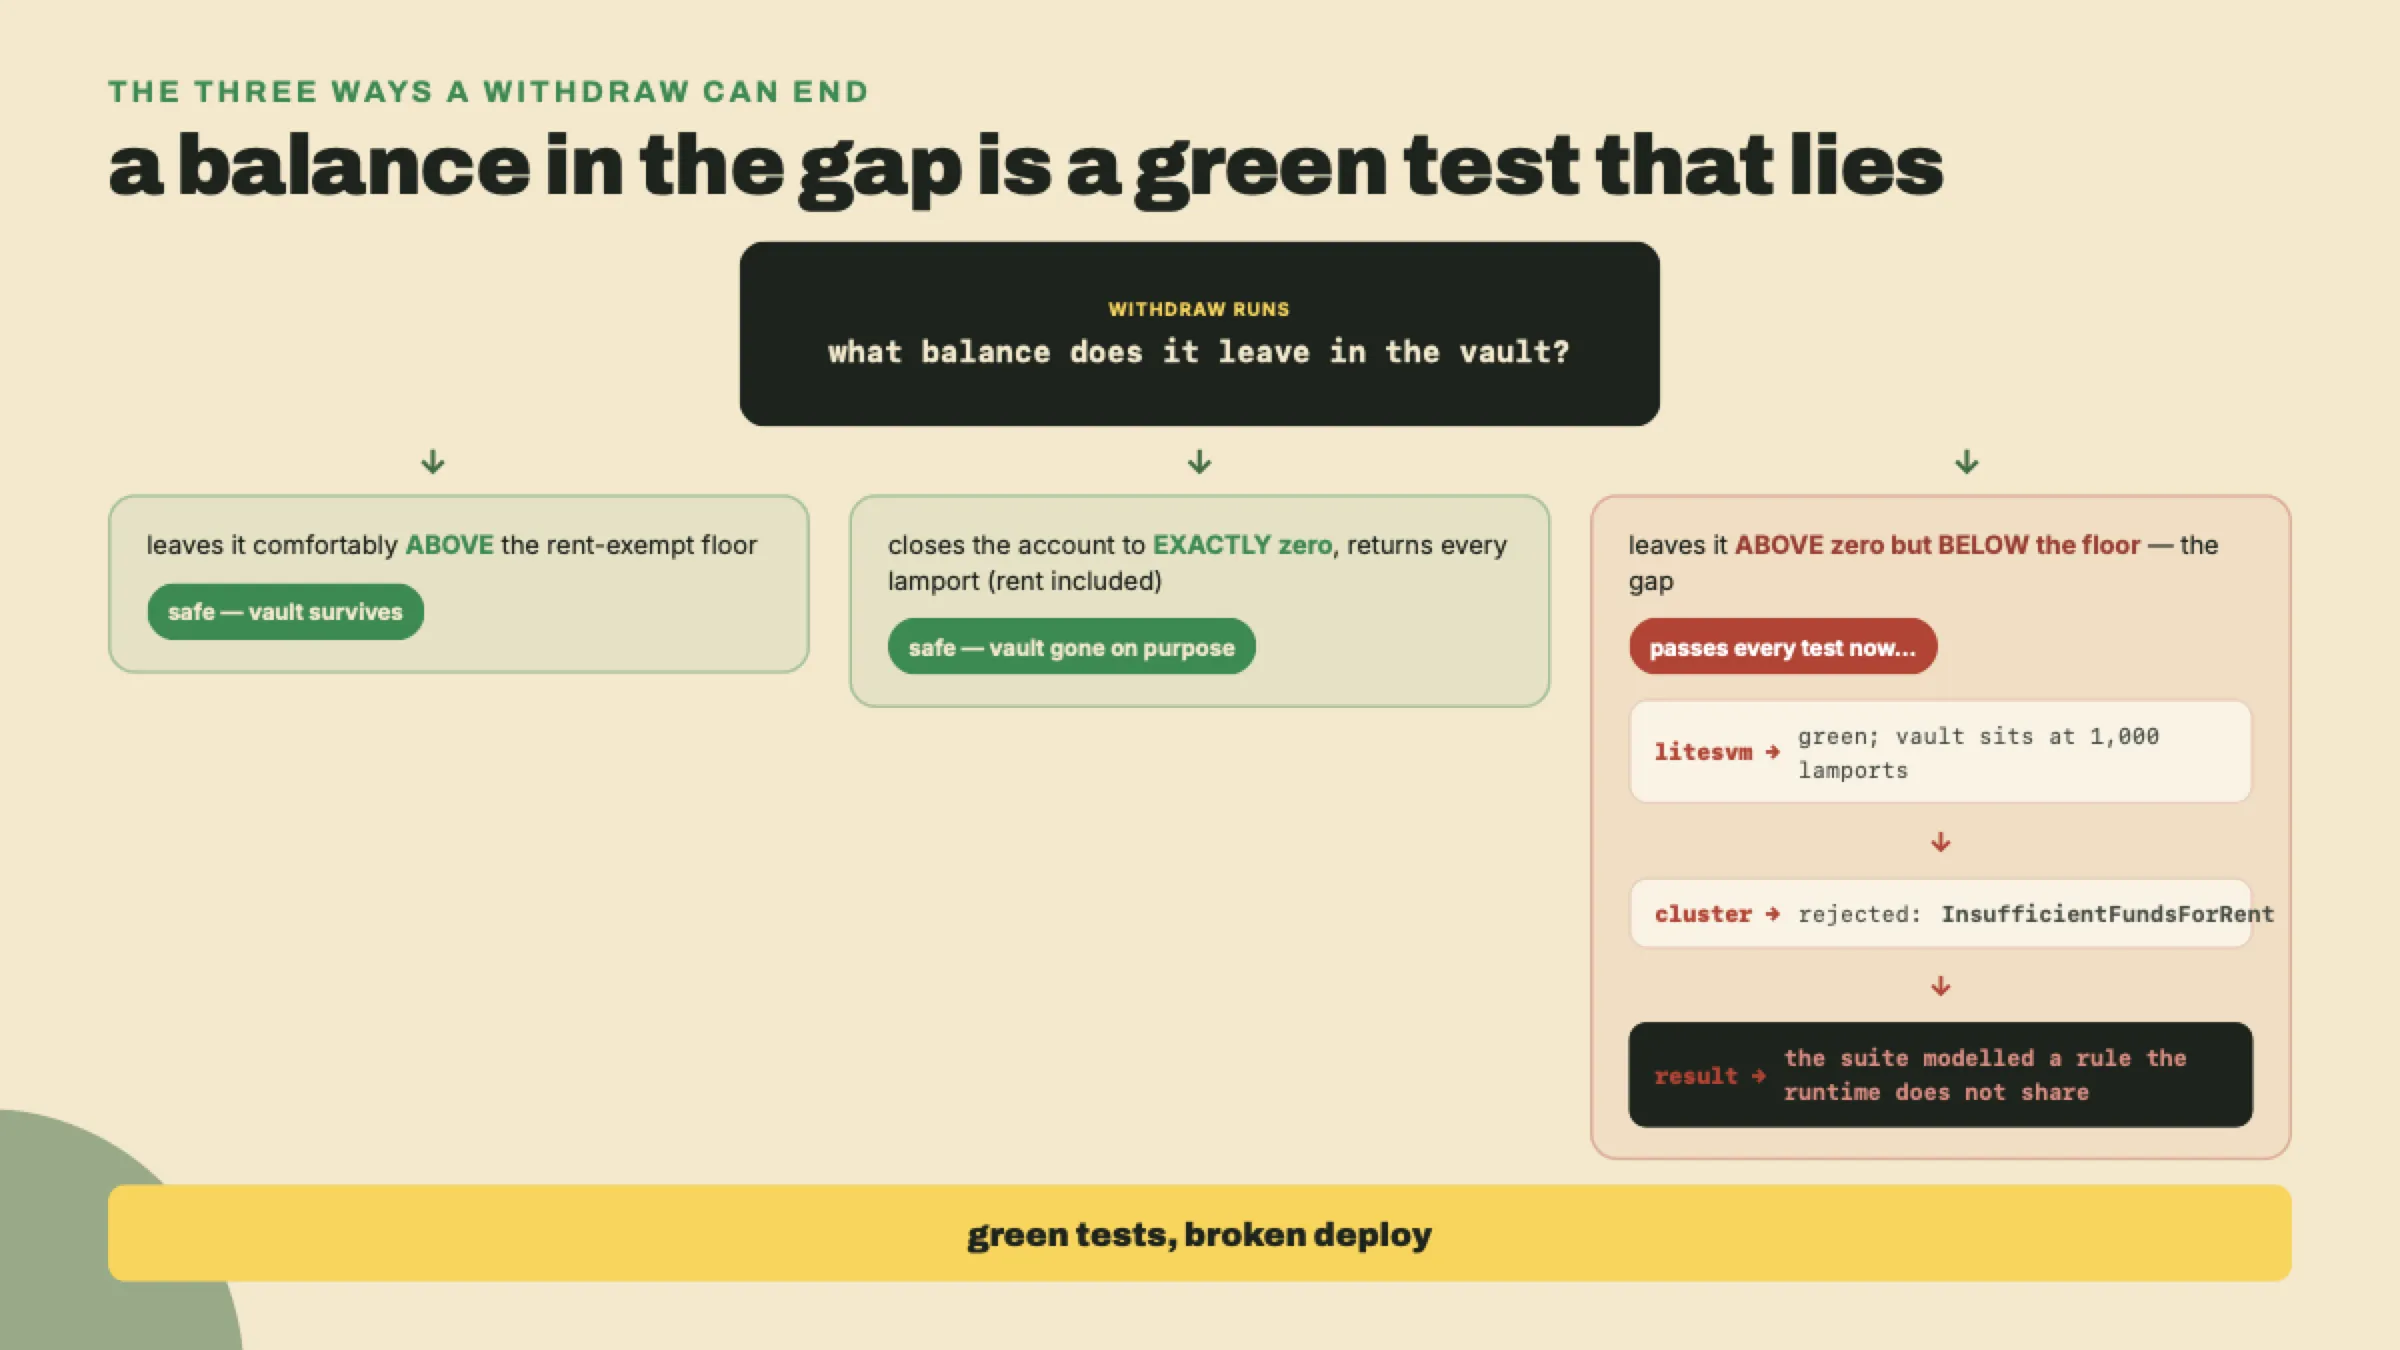
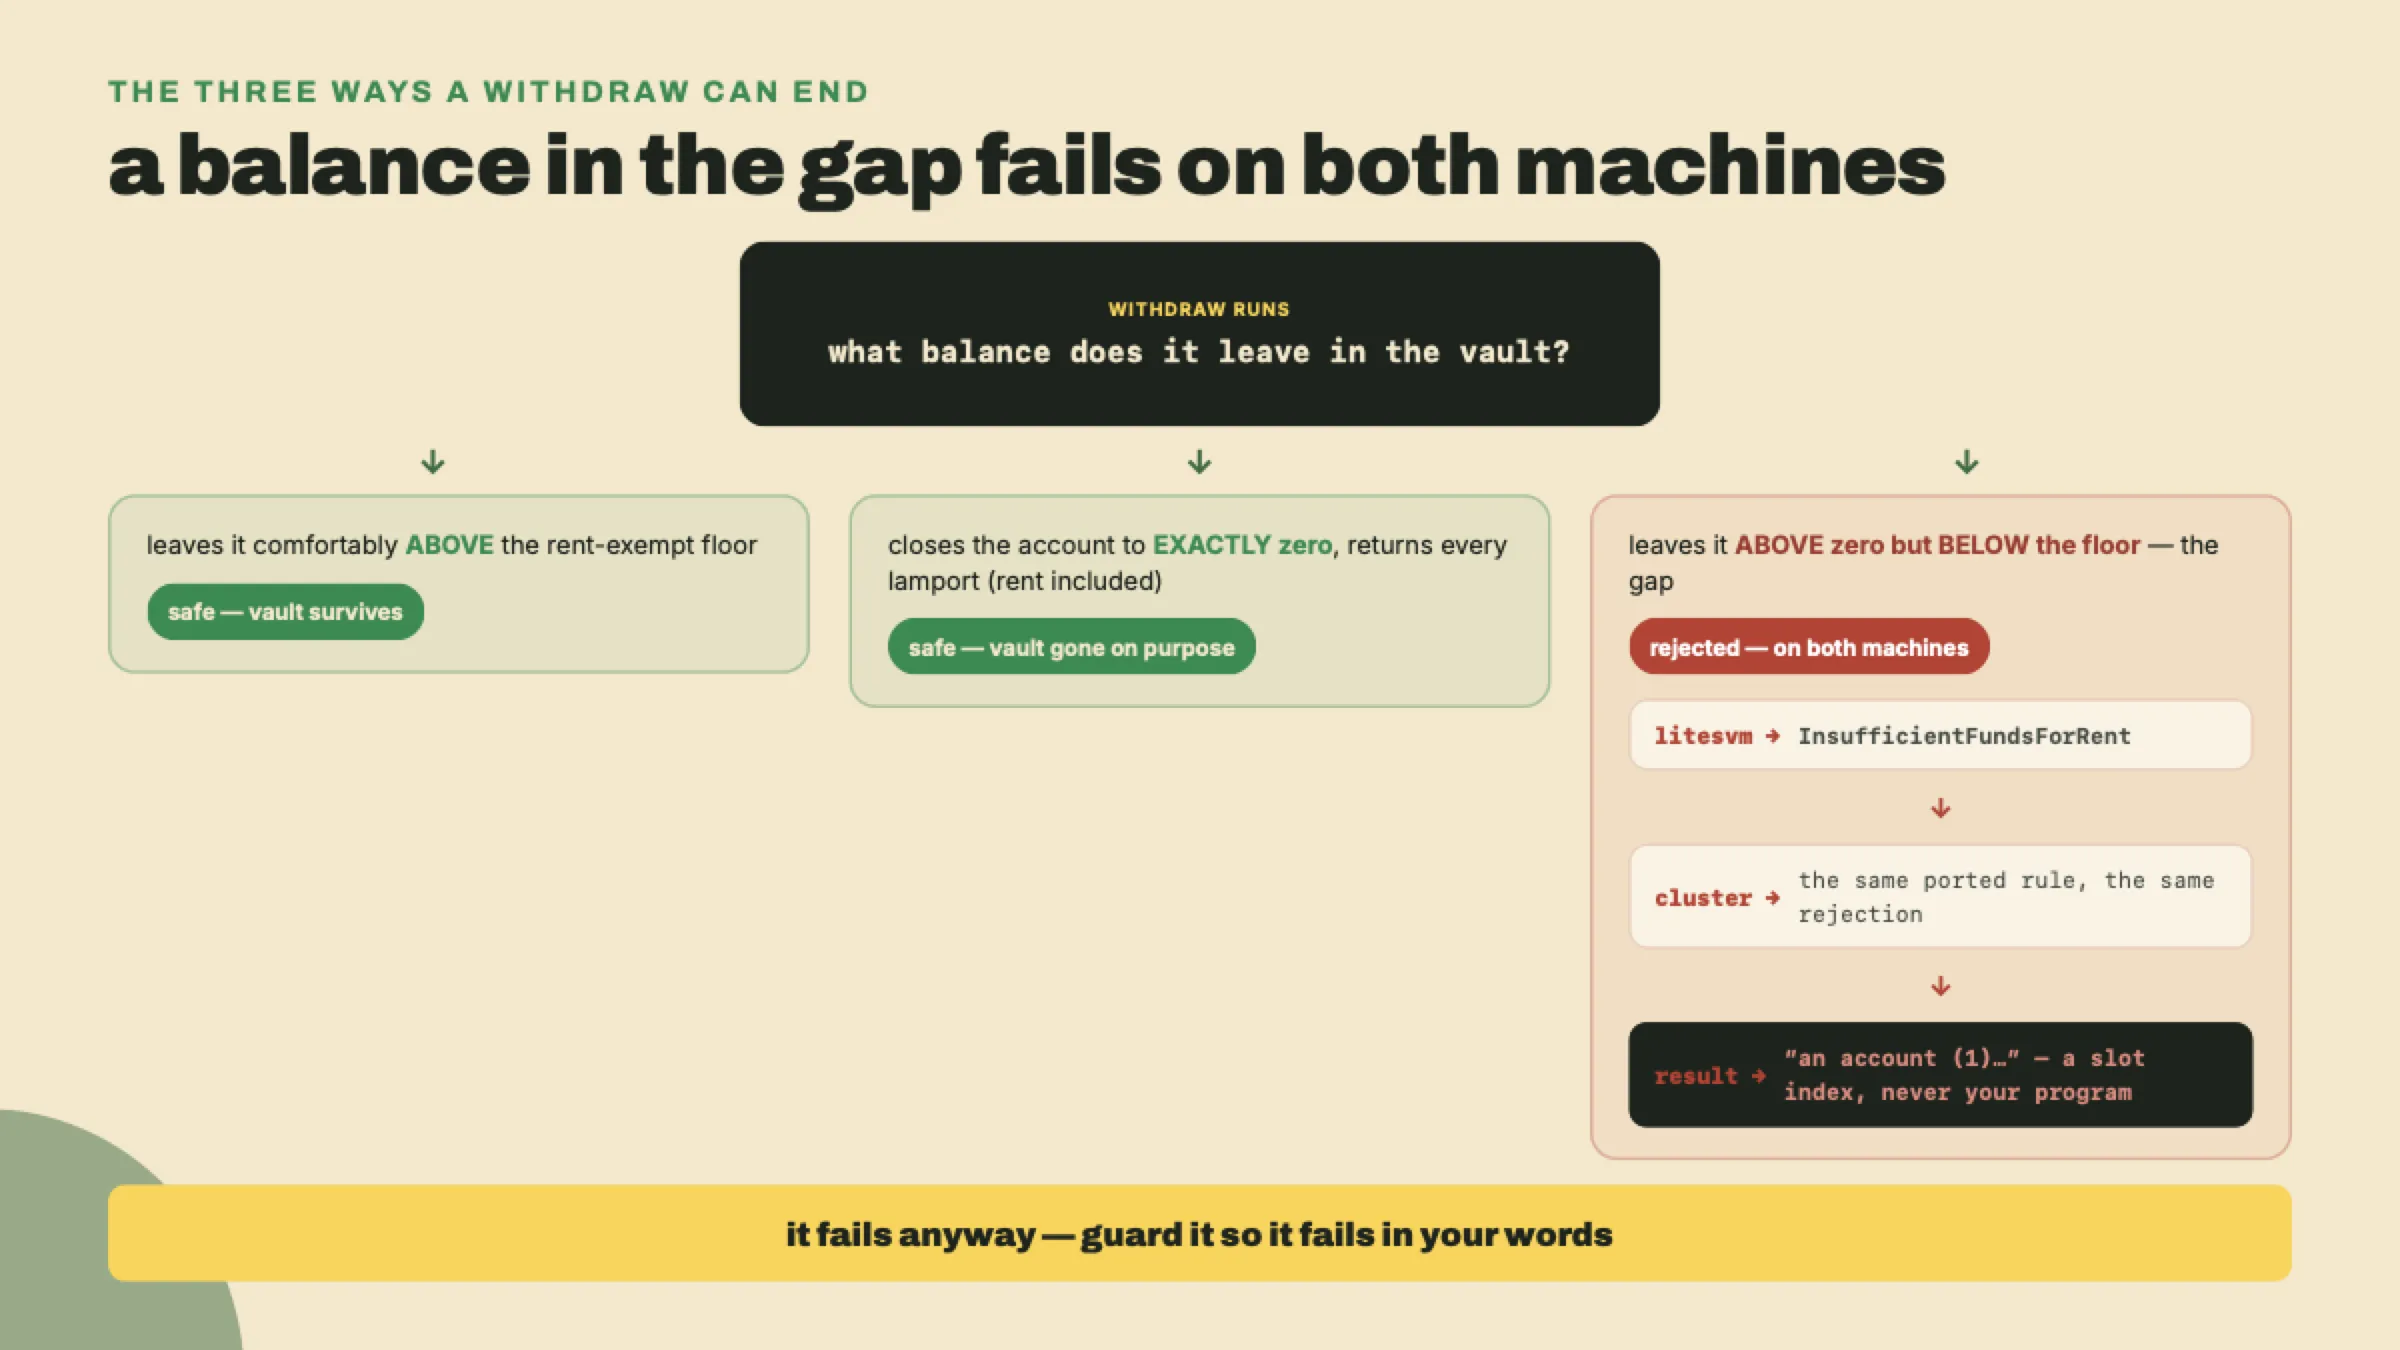
fix(b2s): LiteSVM does enforce the rent-state check
an-anchor-vault claimed "LiteSVM does not apply that rent-state check on this
path: run the sliver-leaving withdraw under `anchor test` and it returns green",
and built its payoff on it: "the one machine that would have caught it is the one
machine you are not running". Both are false, and inverted rather than merely
imprecise -- a learner who runs the lab sees the opposite of what they were told.

Verified two ways against litesvm 0.16.0.

Read: src/utils/rent.rs states in its first line that it is taken from Agave's
svm/src/rent_calculator.rs. transition_allowed returns false for a post-state of
RentPaying reached from RentExempt. check_accounts_rent (lib.rs:2103) walks every
writable account after execution and is wired into the result at lib.rs:1496.
The crate's own tests/system.rs asserts it:
test_rent_check_still_fails_successful_transaction.

Ran: a standalone litesvm 0.16.0 binary that funds a 0-byte system account to one
SOL and transfers out all but 1,000 lamports -- the lesson's exact scenario:

    vault before : 1000000000 lamports
    RESULT       : REJECTED -> InsufficientFundsForRent { account_index: 1 }
      as string  : Transaction results in an account (1) with insufficient funds for rent
    vault after  : 1000000000 lamports

Rewrites the passage to teach what is actually true without claiming LiteSVM is a
runtime replica: it enforces THIS rule, both machines reject the withdraw, and the
[…]

diff --git a/courses/btc-to-sol-evolution/visual-src/an-anchor-vault/v09-flowchart.html b/courses/btc-to-sol-evolution/visual-src/an-anchor-vault/v09-flowchart.html
@@ -11,9 +11,9 @@
 </style></head>
 <body>
 <!-- flowchart: the three ways a withdraw can end
-     purpose: certify that a balance in the rent-exempt gap is rejected by the real runtime but waved through by the in-process test harness
-     data: withdraw runs -> what balance does it leave in the vault? leaves it comfortably ABOVE the rent-exempt floor -> safe, vault survives closes the account to EXACTLY zero, returns every lamport (rent included) -> safe, vault gone on purpose leaves it ABOVE zero but BELOW the floor (the gap) -> LiteSVM: green, vault sits at 1,000 lamports -> real cluster: rejected, InsufficientFundsForRent -> your suite modelled a rule the runtime does not share; nothing is ever swept, because rent collection is off cluster-wide
-     prompt: Top-down flowchart, dark theme, monospace. One decision node ("resulting vault balance?") branching to three outcomes: two green ("above floor", "exactly zero"), one red ("in the gap") that flows down through a "LiteSVM says green -> real cluster rejects with InsufficientFundsForRent -> your test lied" chain. Callout on the red path: "green tests, broken deploy". Do NOT depict an epoch sweep or a purge: rent collection is disabled cluster-wide and nothing is ever swept. No decorative icons.
+     purpose: certify that a balance in the rent-exempt gap is rejected by BOTH machines, and that the cost is an error in the runtime's vocabulary rather than the program's
+     data: withdraw runs -> what balance does it leave in the vault? leaves it comfortably ABOVE the rent-exempt floor -> safe, vault survives closes the account to EXACTLY zero, returns every lamport (rent included) -> safe, vault gone on purpose leaves it ABOVE zero but BELOW the floor (the gap) -> LiteSVM: REJECTED, InsufficientFundsForRent (litesvm/src/utils/rent.rs is a direct port of Agave's rent_calculator.rs; check_accounts_rent re-walks every writable account post-execution, and RentExempt -> RentPaying is not an allowed transition) -> real cluster: rejected the same way -> both machines agree; what you lose is the wording: "Transaction results in an account (1) with insufficient funds for rent" names a slot index and never names your program; nothing is ever swept, because rent collection is off cluster-wide
+     prompt: Top-down flowchart, dark theme, monospace. One decision node ("resulting vault balance?") branching to three outcomes: two green ("above floor", "exactly zero"), one red ("in the gap") that flows down through a "LiteSVM rejects -> the cluster rejects identically -> the message names an account index, not your program" chain. Callout on the red path: "both machines agree - in the runtime's words, not yours". Do NOT claim LiteSVM passes, is green, or misses this check: it ports Agave's rent_calculator verbatim and enforces the same RentExempt -> RentPaying rejection, which was verified against litesvm 0.16.0 source and its own test_rent_check_still_fails_successful_transaction. Do NOT depict an epoch sweep or a purge: rent collection is disabled cluster-wide and nothing is ever swept. No decorative icons.
      BUILD .viz as on-brand HTML per skills/content-gen/references/visual-rendering.md.
      WeasyPrint-safe CSS only: flexbox/grid/borders/gradients; NO box-shadow, NO
      background-image url(), NO JS. Use brand tokens (--surface-*, --text-*, --stbr-*). -->
@@ -56,7 +56,7 @@
     font-weight:900; font-size:22px; }
 </style>
   <div class="stbr-eyebrow">the three ways a withdraw can end</div>
-  <h2 class="viz-title">a balance in the gap is a green test that lies</h2>
+  <h2 class="viz-title">a balance in the gap fails on both machines</h2>
   <div class="fc">
     <div class="decwrap"><div class="decide"><span class="k">withdraw runs</span><span class="q">what balance does it leave in the vault?</span></div></div>
     <div class="fork"><span>&darr;</span><span>&darr;</span><span>&darr;</span></div>
@@ -65,17 +65,17 @@
       <div class="out safe"><div class="cond">closes the account to <b>EXACTLY zero</b>, returns every lamport (rent included)</div><div class="verdict">safe &mdash; vault gone on purpose</div></div>
       <div class="out bad">
         <div class="cond">leaves it <b>ABOVE zero but BELOW the floor</b> &mdash; the gap</div>
-        <div class="verdict">passes every test now&hellip;</div>
+        <div class="verdict">rejected &mdash; on both machines</div>
         <div class="chain">
-          <div class="link"><span class="step">litesvm &rarr;</span> green; vault sits at 1,000 lamports</div>
+          <div class="link"><span class="step">litesvm &rarr;</span> <b>InsufficientFundsForRent</b></div>
           <div class="dnr">&darr;</div>
-          <div class="link"><span class="step">cluster &rarr;</span> rejected: <b>InsufficientFundsForRent</b></div>
+          <div class="link"><span class="step">cluster &rarr;</span> the same ported rule, the same rejection</div>
           <div class="dnr">&darr;</div>
-          <div class="link final"><span class="step">result &rarr;</span> <b>the suite modelled a rule the runtime does not share</b></div>
+          <div class="link final"><span class="step">result &rarr;</span> <b>&ldquo;an account (1)&hellip;&rdquo; &mdash; a slot index, never your program</b></div>
         </div>
       </div>
     </div>
-    <div class="callout">green tests, broken deploy</div>
+    <div class="callout">it fails anyway &mdash; guard it so it fails in your words</div>
   </div>
 </div>
 </body></html>

diff --git a/courses/btc-to-sol-evolution/lessons/an-anchor-vault/intro.md b/courses/btc-to-sol-evolution/lessons/an-anchor-vault/intro.md
@@ -544,11 +544,17 @@ Transaction results in an account (0) with insufficient funds for rent
 
 The second: nothing comes for it later, either. Periodic rent collection was switched off cluster-wide, which is exactly what the throughput lesson told you last lesson. There is no epoch-boundary reaper hunting under-funded accounts, because there is no rent collector at all any more. The gap is guarded at the door, not policed after the fact.
 
-So why does this footgun still have a body count? Because your test harness is not the runtime. LiteSVM does not apply that rent-state check on this path: run the sliver-leaving withdraw under `anchor test` and it returns green, and the vault sits there holding its 1,000 lamports as though nothing were wrong. Then you deploy, a real user asks for that same withdrawal, and the transaction bounces off a rule your suite never modelled, with an error that names *rent* when your program never said a word about rent. That is the modern shape of this trap: not a silent loss, but a green test that lies about production.
+So why does this footgun still have a body count? Not because your harness misses it. That is the guess everyone makes, and it is worth disproving out loud, because a lot of advice is built on it. LiteSVM does apply the rule. Its `src/utils/rent.rs` is a direct port of Agave's `rent_calculator.rs` — the file says so on its first line — and after every transaction it walks each writable account and compares the account's rent state before and after. Going from rent-exempt to rent-paying is not an allowed transition, so the sliver-leaving withdraw fails in your test suite exactly as it fails on devnet:
 
-So a correct withdraw has only two safe endings. It either leaves the vault comfortably above the rent-exempt floor, or it closes the account out to exactly zero on purpose and returns every last lamport, the rent deposit included, to the owner. Anything in the gap between those two passes on your machine and fails on the network. That's the second footgun on the list, and it is the meanest kind, because the one machine that would have caught it is the one machine you are not running.
+```
+Error: Transaction results in an account (1) with insufficient funds for rent
+```
 
-![A flowchart of the three withdraw outcomes: above the rent floor is safe, exactly zero is safe, and a balance in the gap passes the in-process LiteSVM test but is rejected by the real runtime with InsufficientFundsForRent.](assets/v09-flowchart.webp)
+Same rule, same rejection, both machines. The trap is what that sentence does *not* say. It names an account by its position in the transaction and it names *rent*, a word your program never mentions. It does not name `withdraw`, or the amount the caller asked for, or the line you would have to change. So a newcomer reads it as a funding problem or a harness quirk and goes hunting in the wrong file, and the actual defect — a program that never states its own balance rule — stays exactly where it was.
+
+So a correct withdraw has only two safe endings. It either leaves the vault comfortably above the rent-exempt floor, or it closes the account out to exactly zero on purpose and returns every last lamport, the rent deposit included, to the owner. Anything in the gap between those two is rejected on both machines, and that agreement is the good news: the bug cannot reach production behind a green suite. What it can do is fail in a stranger's vocabulary. That's the second footgun on the list, and the fix is not to make it fail — it already fails. The fix is to make it fail in your words, at your guard, before the runtime ever has to speak.
+
+![A flowchart of the three withdraw outcomes: above the rent floor is safe, exactly zero is safe, and a balance in the gap is rejected by LiteSVM and the real runtime alike with InsufficientFundsForRent, an error that names an account index rather than the program.](assets/v09-flowchart.webp)
 
 Two more sharp edges worth knowing exist. Duplicate mutable accounts are now disallowed by default, so you can't accidentally pass the same writable account into two slots; you opt back in with the `dup` constraint on the rare instruction that genuinely needs it. And the client you'll reach for next lesson does not talk to this program by hand: it is generated straight from this program's IDL and speaks to it through `@solana/kit`, so you never hand-write a call. File both away.
 
@@ -571,7 +577,7 @@ test result: ok. 3 passed; 0 failed; 0 ignored; 0 measured; 0 filtered out
 
 **Solo.** The authority check above is the guard. Prove it works. Write a test that submits a withdrawal signed by a *different* keypair against the owner's vault, and assert it fails with `VaultError::Unauthorized`. A passing solo means the vault drains for the owner and refuses everyone else, on devnet, with your own error message.
 
-**Harden.** The rent-exempt trap from earlier is not hypothetical, and right now nothing in `withdraw` stops it. Close it. Add a guard at the top of the instruction that reads the vault's own rent-exempt floor, `Rent::get()?.minimum_balance(0)` (zero bytes, because the `SystemAccount` vault stores no data of its own), and rejects any withdrawal that would leave the vault holding something above zero but under that floor. Return a new `VaultError::BelowRentExempt` instead of letting the transfer through. Then write the test that fires straight at it: deposit half a SOL, try to withdraw an amount that would strand the vault a handful of lamports below its minimum, and assert the call fails with `BelowRentExempt`. Without the guard, that withdrawal returns green in LiteSVM and then bounces on any real cluster with an `insufficient funds for rent` error that never mentions your program. With the guard, both machines agree, and they agree in your words:
+**Harden.** The rent-exempt trap from earlier is not hypothetical, and right now nothing in `withdraw` stops it. Close it. Add a guard at the top of the instruction that reads the vault's own rent-exempt floor, `Rent::get()?.minimum_balance(0)` (zero bytes, because the `SystemAccount` vault stores no data of its own), and rejects any withdrawal that would leave the vault holding something above zero but under that floor. Return a new `VaultError::BelowRentExempt` instead of letting the transfer through. Then write the test that fires straight at it: deposit half a SOL, try to withdraw an amount that would strand the vault a handful of lamports below its minimum, and assert the call fails with `BelowRentExempt`. Without the guard, both machines already reject that withdrawal, but they reject it in the runtime's vocabulary — `Transaction results in an account (1) with insufficient funds for rent`, which names a slot number and never mentions your program. With the guard, they still agree, and they agree in your words:
 
 ```
 Program log: AnchorError thrown in programs/vault/src/lib.rs. Error Code: BelowRentExempt.
